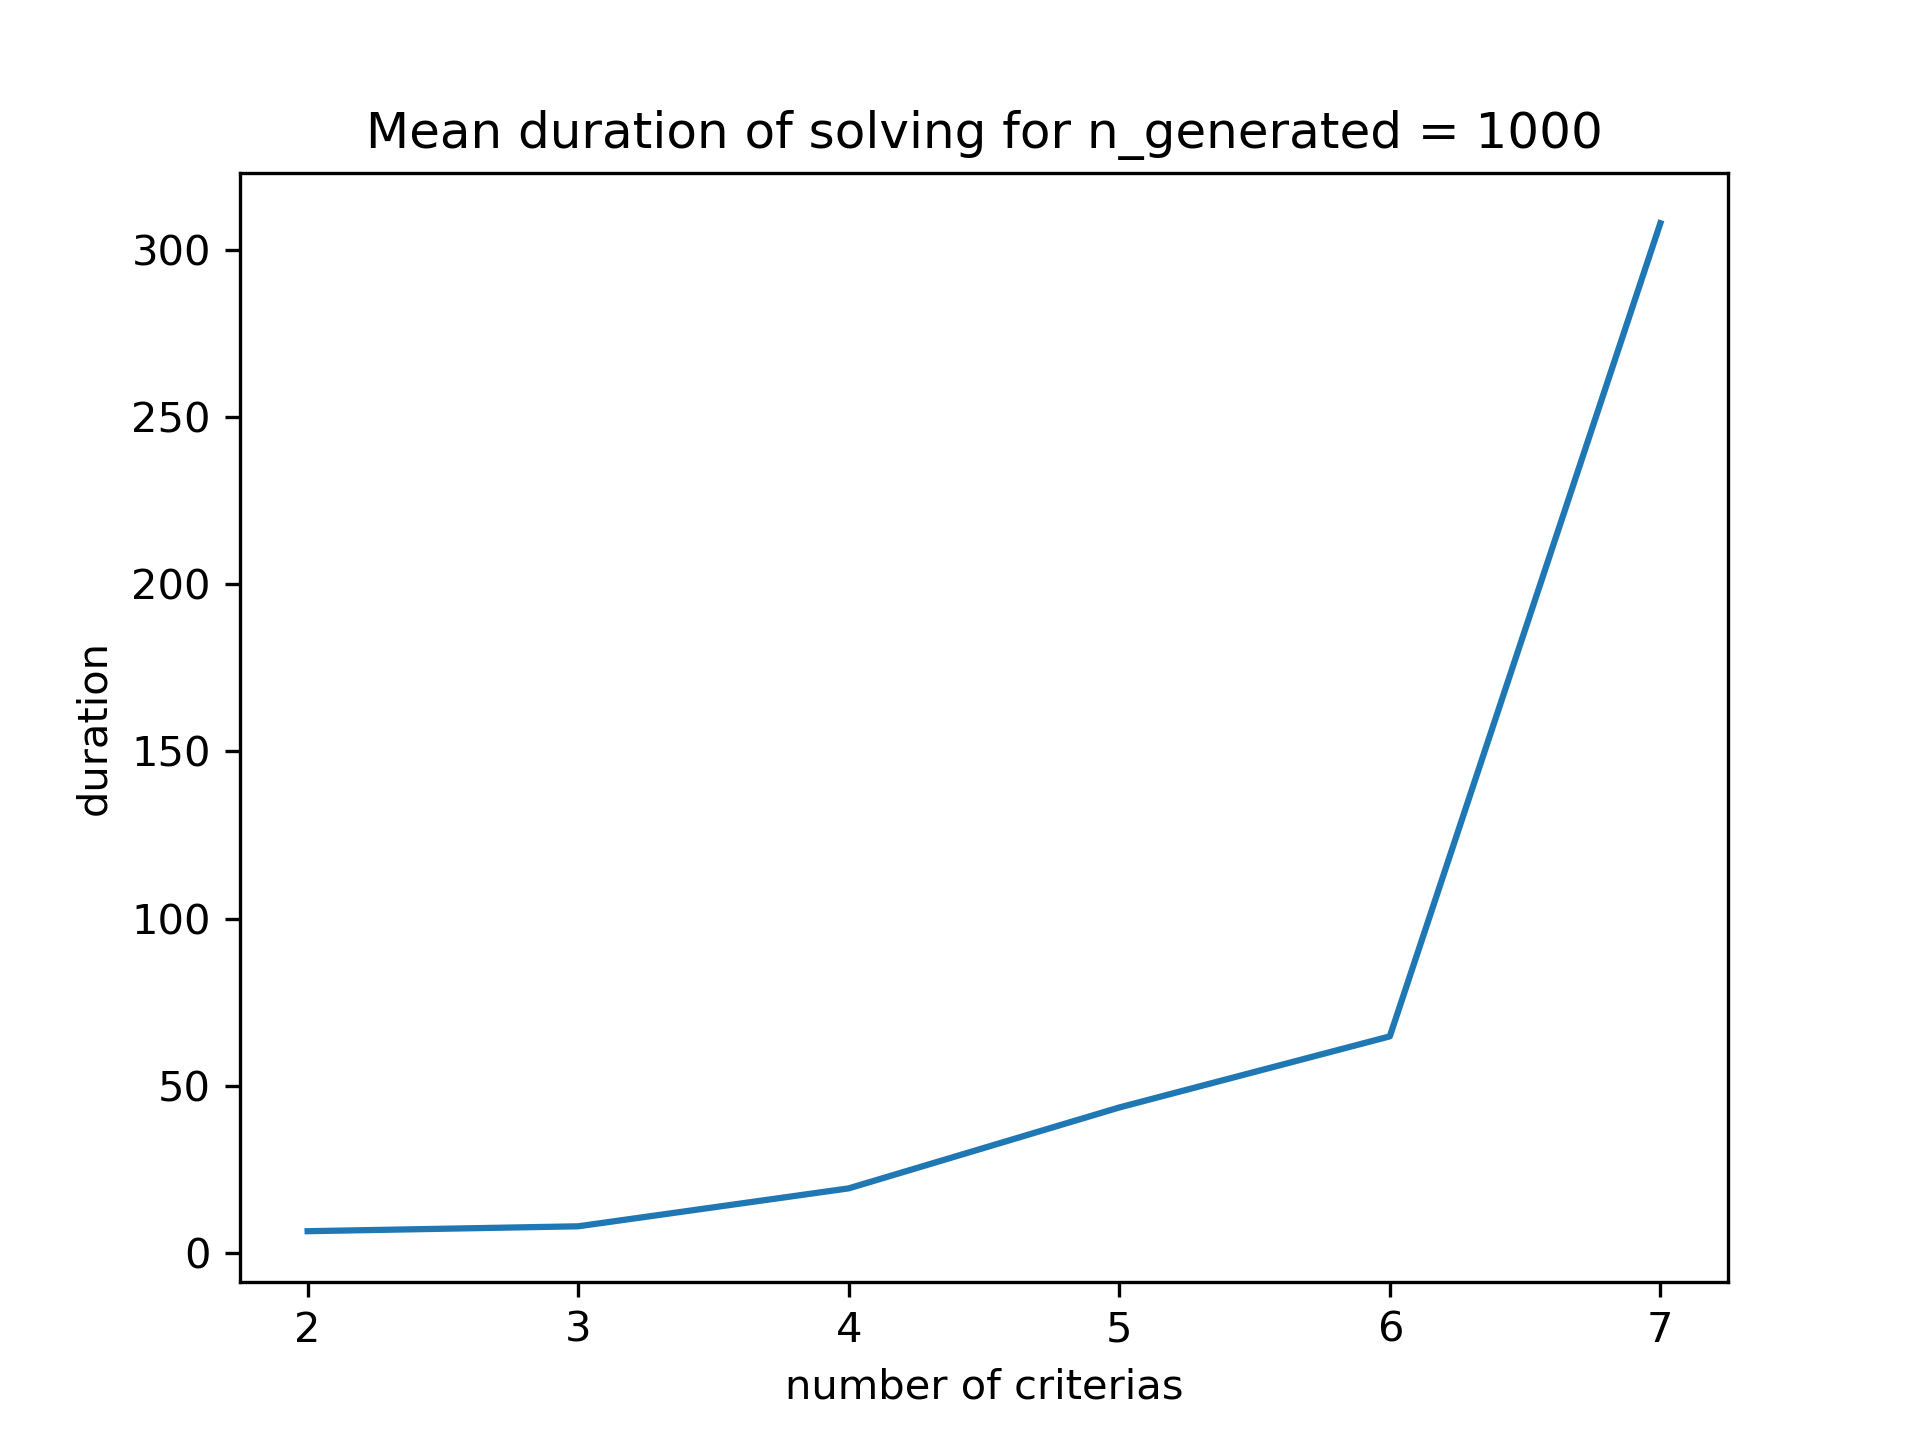
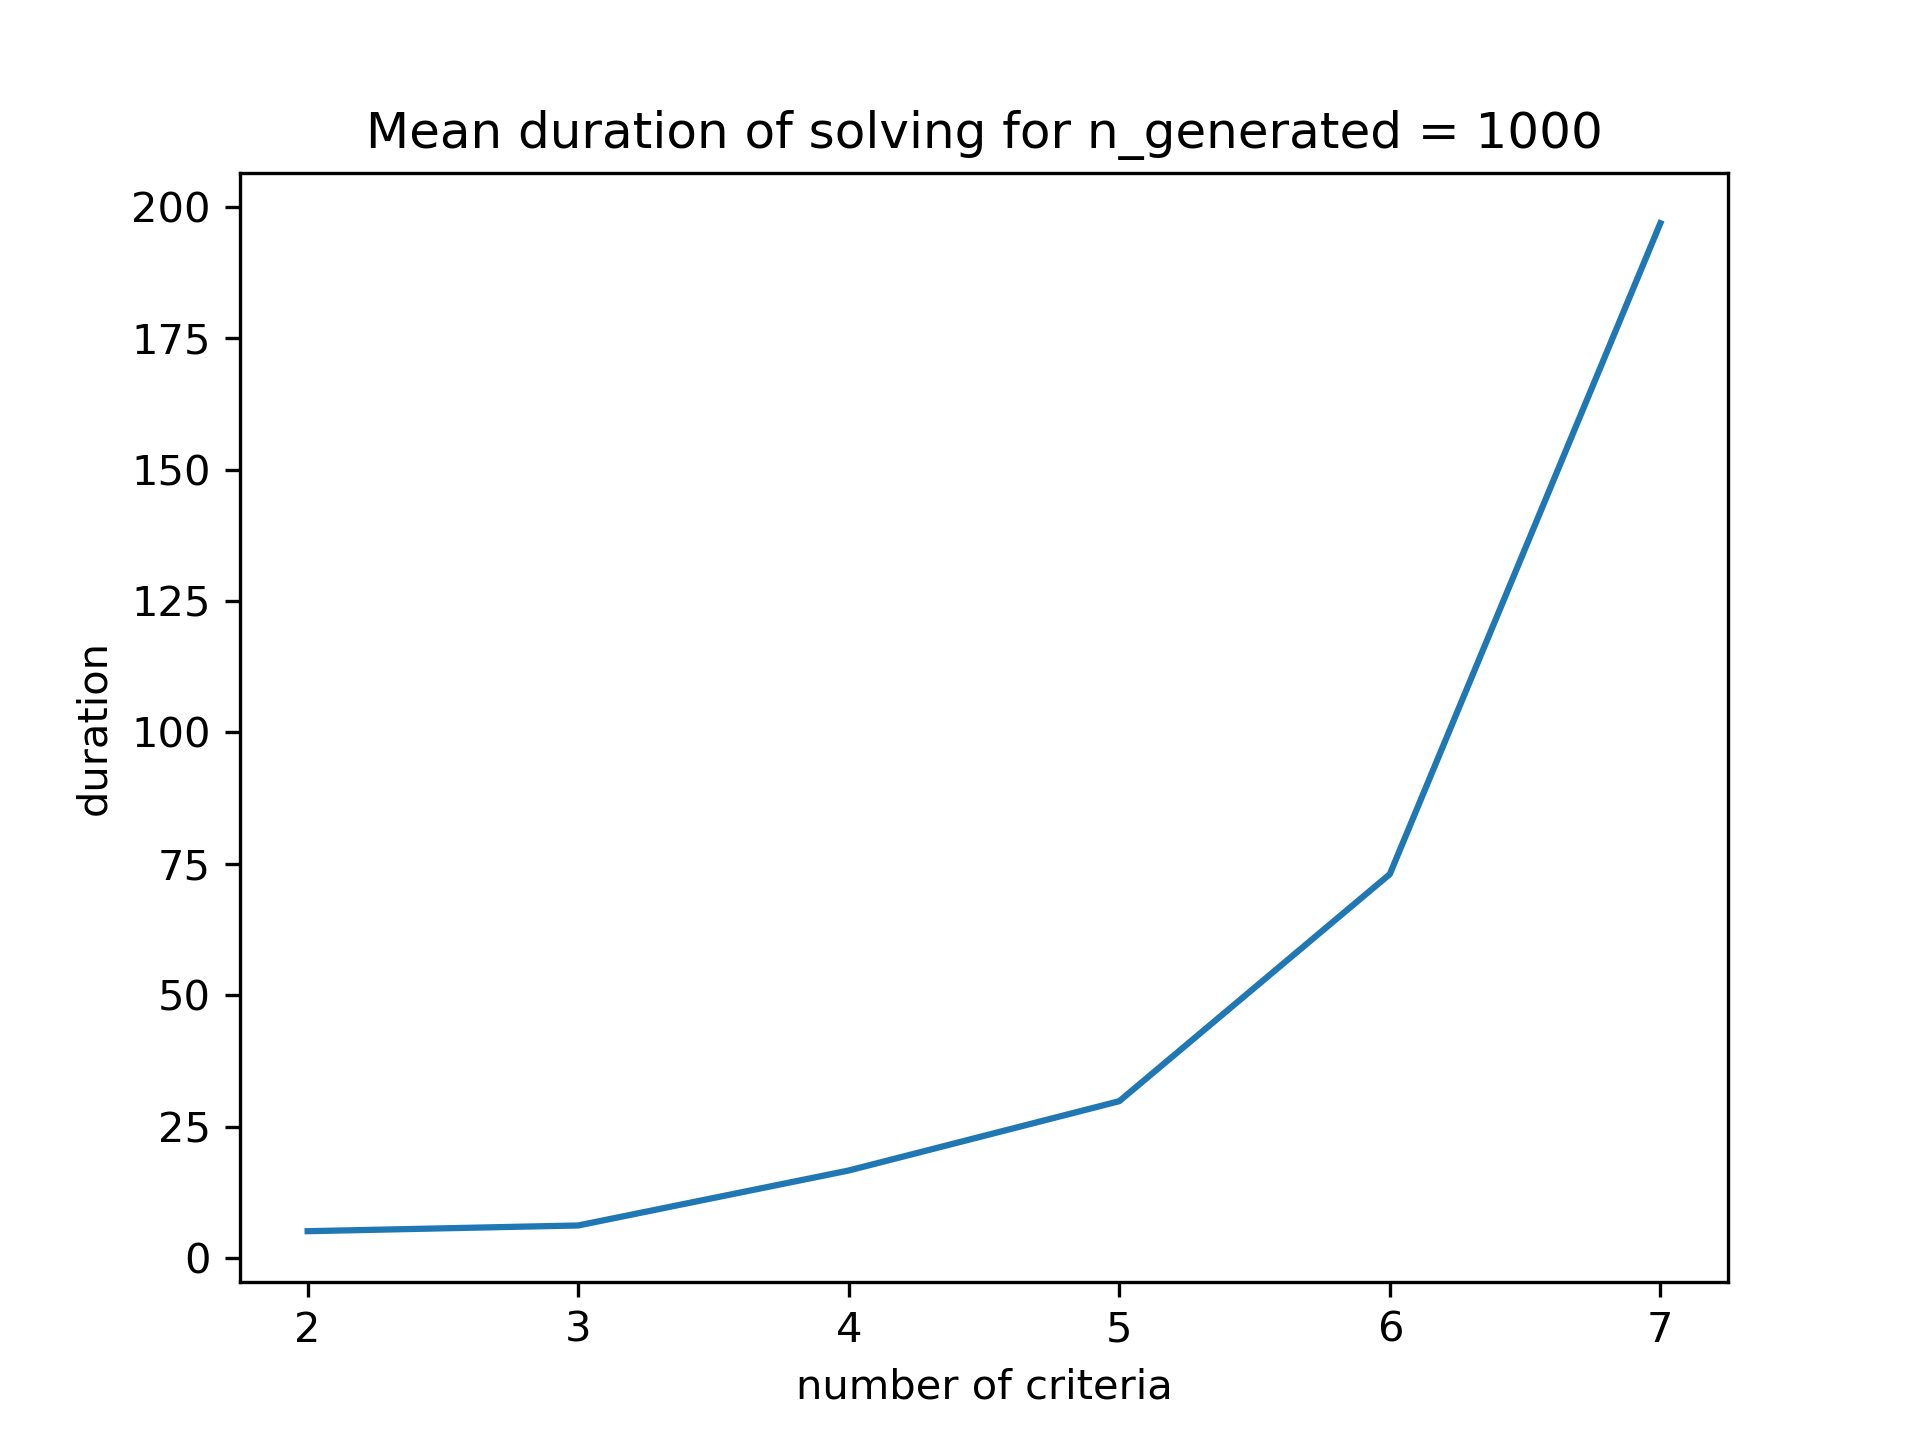
assets

diff --git a/Inv-MR-Sort/config.py b/Inv-MR-Sort/config.py
@@ -49,4 +49,4 @@ default_n_generated_list = [50, 100, 200, 400, 600, 800, 1000, 1500, 2000]
 default_eval_rounds = 5
 default_n_list = [2, 3, 4, 5, 6, 7]
 
-quantization_factor = 10
+quantization_factor = 100
